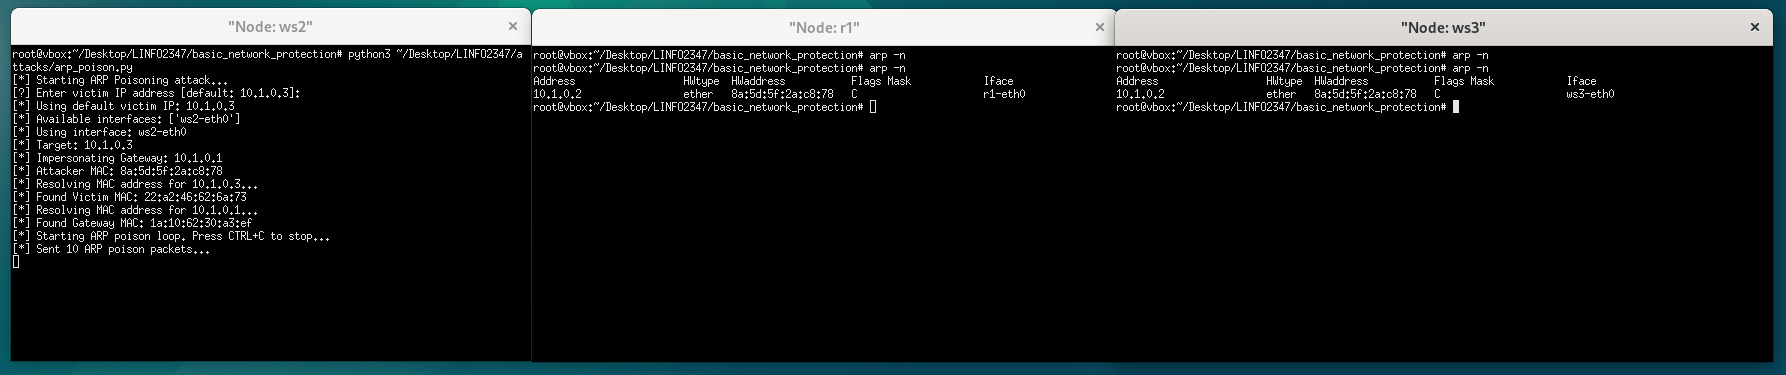
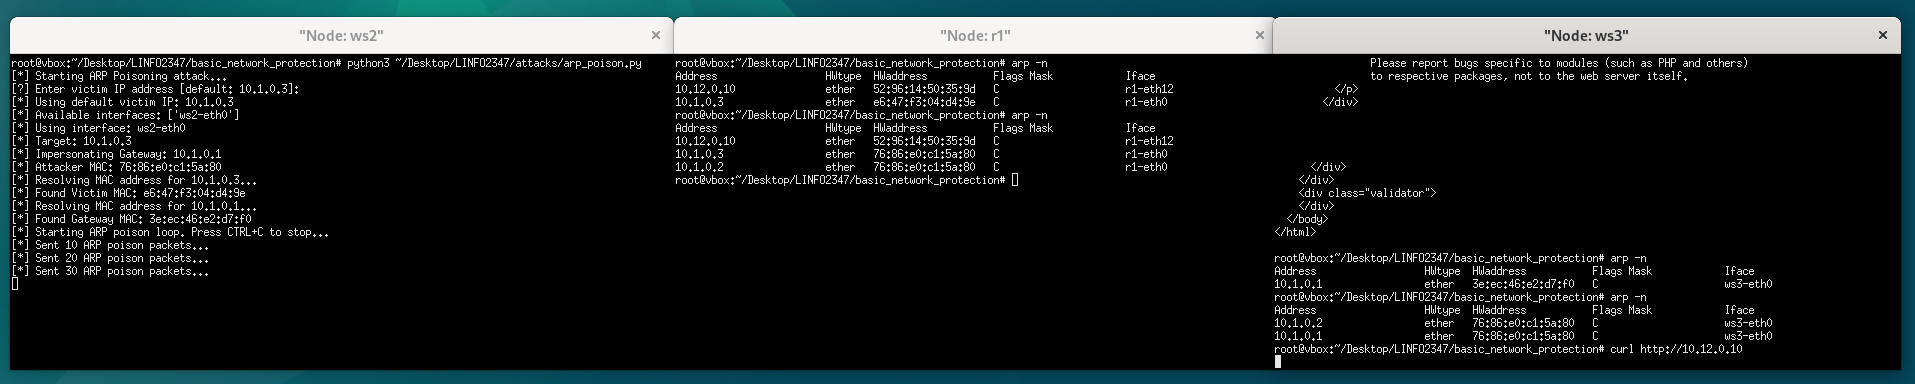
arp_poison  fixed and readme screens

diff --git a/protections/arp_poison/arp_poison_topo.py b/protections/arp_poison/arp_poison_topo.py
@@ -49,6 +49,8 @@ class TopoSecu(Topo):
         ntpServer = self.addHost(name='ntp', ip='10.12.0.30/24', defaultRoute='via 10.12.0.2')
         ftpServer = self.addHost(name='ftp', ip='10.12.0.40/24', defaultRoute='via 10.12.0.2')
 
+
+
         # Add host-switch links
         self.addLink(ws2, s1)
         self.addLink(ws3, s1)
@@ -160,9 +162,10 @@ def apply_static_arp(net):
         
         if target_mac and src_host in net:
             result = net[src_host].cmd(f"arp -s {target_ip} {target_mac}")
-            info(f"  {src_host} → {target_ip} ({target_host}): {'OK' if not result else result}\n")
+            info(f"  {src_host} → {target_ip} ({target_host}): {'ok' if not result else result}\n")
         else:
-            info(f"  {src_host} → {target_ip} ({target_host}): FAILED (MAC not found)\n")
+            info(f"  {src_host} → {target_ip} ({target_host}): failed mac not found\n")
+
 def run():
     os.chdir(os.path.dirname(os.path.abspath(__file__)))
     topo = TopoSecu()
@@ -171,11 +174,25 @@ def run():
     net.start()
 
     add_routes(net)
+
+    info(net['http'].cmd("ip route add 10.1.0.0/24 via 10.12.0.1 dev http-eth0"))
+    info(net['dns'].cmd("ip route add 10.1.0.0/24 via 10.12.0.1 dev dns-eth0")) 
+    info(net['ntp'].cmd("ip route add 10.1.0.0/24 via 10.12.0.1 dev ntp-eth0"))
+    info(net['ftp'].cmd("ip route add 10.1.0.0/24 via 10.12.0.1 dev ftp-eth0"))
+    
     stop_services(net)
     time.sleep(1)
     start_services(net)
 
+    apply_nftables_rules(net, ['r1'], 'basic_r1.nft')
+    apply_nftables_rules(net, ['r2'], 'basic_r2.nft')
+    apply_nftables_rules(net, ['http'], 'basic_http.nft')
+    apply_nftables_rules(net, ['dns'], 'basic_dns.nft')
+    apply_nftables_rules(net, ['ftp'], 'basic_ftp.nft')
+    apply_nftables_rules(net, ['ntp'], 'basic_ntp.nft')
+
     apply_static_arp(net)
+
 
     CLI(net)
     stop_services(net)
@@ -192,6 +209,13 @@ def ping_all():
     add_routes(net)
     stop_services(net)
     start_services(net)
+
+    apply_nftables_rules(net, ['r1'], 'basic_r1.nft')
+    apply_nftables_rules(net, ['r2'], 'basic_r2.nft')
+    apply_nftables_rules(net, ['http'], 'basic_http.nft')
+    apply_nftables_rules(net, ['dns'], 'basic_dns.nft')
+    apply_nftables_rules(net, ['ftp'], 'basic_ftp.nft')
+    apply_nftables_rules(net, ['ntp'], 'basic_ntp.nft')
 
     apply_static_arp(net)
 

diff --git a/basic_network_protection/topo.py b/basic_network_protection/topo.py
@@ -116,6 +116,12 @@ def run():
     net = Mininet(topo=topo)
 
     add_routes(net)
+
+    info(net['http'].cmd("ip route add 10.1.0.0/24 via 10.12.0.1 dev http-eth0"))
+    info(net['dns'].cmd("ip route add 10.1.0.0/24 via 10.12.0.1 dev dns-eth0")) 
+    info(net['ntp'].cmd("ip route add 10.1.0.0/24 via 10.12.0.1 dev ntp-eth0"))
+    info(net['ftp'].cmd("ip route add 10.1.0.0/24 via 10.12.0.1 dev ftp-eth0"))
+
     stop_services(net)
     time.sleep(1)
     start_services(net)

diff --git a/README.md b/README.md
@@ -252,10 +252,14 @@ Screenshot of the attack:
 
 ![arp poison attack](./screenshots/arp_poison_atck_final.png)
 
-So on the screenshot:
-- Before the attack, ARP tables are empty
-- After the attack, the ARP tables (MAC entries) of both `r1` and `ws3` (the victim) point to the attacker `ws2`
-- All the traffic on `ws3-eth0` **goes through ws2** (MITM)
+A lot is going on on the screenshot but basically:
+- We first `curl http://10.12.0.10` to test out
+- Then we display ARP entries on `r1` and `ws3`. We can see that the arp tables contain the right MAC addresses.
+- Now we start the attack from `ws2` and we can see that the `arp` tables of `r1` and the victim `ws3` is spoofed with `ws2`'s MAC address
+- Traffic from `ws3` to, for instance a DMZ server (http) will pass through `ws2` as shown here with tcpdump:
+
+![arp poison attack](./screenshots/arp_poison_atck_final2.png)
+
 
 #### Defense
 
